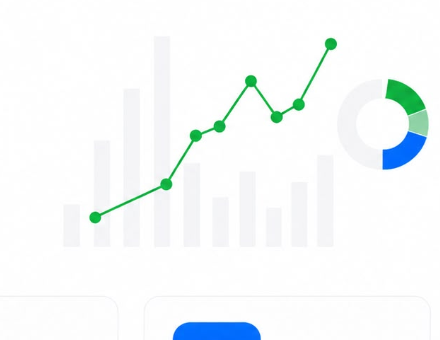
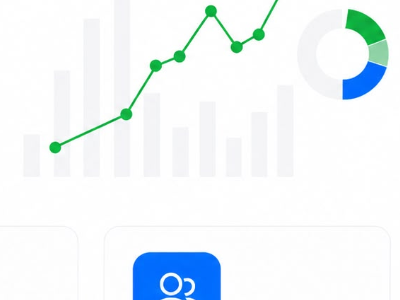
fix: Realign Features section layout, graph position, card aspect ratios, and grid container to match reference image

diff --git a/src/components/landing/FeaturesSection.tsx b/src/components/landing/FeaturesSection.tsx
@@ -3,73 +3,73 @@ import { motion } from 'framer-motion';
 
 export const FeaturesSection: React.FC = () => {
   return (
-    <section id="features" className="w-full bg-white pt-2 lg:pt-6 pb-20 lg:pb-28 font-sans scroll-mt-24">
-      <div className="w-full max-w-[1340px] mx-auto px-6 sm:px-10 lg:px-14">
+    <section id="features" className="w-full bg-white pt-2 lg:pt-6 pb-16 lg:pb-24 font-sans scroll-mt-24">
+      <div className="w-full max-w-[1240px] mx-auto px-6 sm:px-10 lg:px-12">
         
-        {/* Top Header Row (Left text + Right graph illustration) */}
+        {/* Top Header Row (Left Text + Right Graph Illustration) */}
         <motion.div 
-          initial={{ opacity: 0, y: 25 }}
+          initial={{ opacity: 0, y: 20 }}
           whileInView={{ opacity: 1, y: 0 }}
           viewport={{ once: true, margin: "-60px" }}
-          transition={{ duration: 0.5, ease: "easeOut" }}
+          transition={{ duration: 0.45, ease: "easeOut" }}
           className="grid grid-cols-1 lg:grid-cols-12 gap-8 items-center"
         >
           {/* Left Text Header */}
-          <div className="lg:col-span-6 xl:col-span-6">
-            <span className="text-[#1B853A] font-bold text-base uppercase tracking-wider block mb-4">
+          <div className="lg:col-span-6">
+            <span className="text-[#1B853A] font-bold text-sm lg:text-base uppercase tracking-wider block mb-3.5">
               FEATURES
             </span>
 
-            <h2 className="text-4xl sm:text-5xl lg:text-[54px] font-extrabold text-[#0B0F19] tracking-tight leading-[1.14]">
+            <h2 className="text-3xl sm:text-4xl lg:text-[44px] font-extrabold text-[#0F172A] tracking-tight leading-[1.15]">
               Everything you need<br />
               in one integrated system
             </h2>
 
-            <p className="mt-6 text-[#4B5563] text-lg sm:text-xl max-w-[520px] leading-relaxed font-normal">
+            <p className="mt-5 text-[#4B5563] text-base lg:text-lg max-w-[480px] leading-relaxed font-normal">
               Obrain ERP comes with a wide range of powerful features to support every department in your business.
             </p>
           </div>
 
-          {/* Right Graph Illustration (Full scale matching visual spec) */}
-          <div className="lg:col-span-6 xl:col-span-6 flex justify-center lg:justify-end mt-4 lg:mt-0">
-            <div className="w-full max-w-[580px] lg:max-w-[620px] flex justify-end">
+          {/* Right Graph Illustration */}
+          <div className="lg:col-span-6 flex justify-center lg:justify-end">
+            <div className="w-full max-w-[480px] lg:max-w-[520px]">
               <img
                 src="/features-graph.png"
-                alt="Obrain ERP Features Analytics Illustration"
-                className="w-full h-auto object-contain select-none pointer-events-none drop-shadow-xs"
+                alt="Obrain ERP Analytics Illustration"
+                className="w-full h-auto object-contain select-none pointer-events-none"
               />
             </div>
           </div>
         </motion.div>
 
-        {/* 3 Feature Cards (Full container width & proportion) */}
-        <div className="grid grid-cols-1 md:grid-cols-3 gap-8 sm:gap-10 mt-12 lg:mt-16">
+        {/* 3 Feature Cards (Matching exact target reference image proportions) */}
+        <div className="grid grid-cols-1 md:grid-cols-3 gap-6 lg:gap-8 mt-12 lg:mt-16">
           
           {/* Card 1: Finance Management */}
           <motion.div
-            initial={{ opacity: 0, y: 25 }}
+            initial={{ opacity: 0, y: 20 }}
             whileInView={{ opacity: 1, y: 0 }}
             viewport={{ once: true, margin: "-40px" }}
-            transition={{ duration: 0.45, delay: 0.1, ease: "easeOut" }}
-            className="bg-white border border-slate-200/80 rounded-[32px] p-8 sm:p-10 lg:p-12 shadow-xs hover:shadow-xl hover:-translate-y-1.5 transition-all duration-300 flex flex-col justify-between"
+            transition={{ duration: 0.4, delay: 0.1, ease: "easeOut" }}
+            className="bg-white border border-slate-200/80 rounded-[24px] p-7 sm:p-8 lg:p-9 shadow-xs hover:shadow-lg hover:-translate-y-1 transition-all duration-300 flex flex-col justify-between"
           >
             <div>
-              <div className="w-20 h-20 sm:w-22 sm:h-22 rounded-3xl bg-[#1B853A] flex items-center justify-center mb-8 shadow-xs">
-                <svg className="w-10 h-10 text-white" viewBox="0 0 24 24" fill="none" stroke="currentColor" strokeWidth="2" strokeLinecap="round" strokeLinejoin="round">
+              <div className="w-[72px] h-[72px] rounded-[20px] bg-[#1B853A] flex items-center justify-center mb-7 shadow-xs">
+                <svg className="w-9 h-9 text-white" viewBox="0 0 24 24" fill="none" stroke="currentColor" strokeWidth="2" strokeLinecap="round" strokeLinejoin="round">
                   <path d="M14 2H6a2 2 0 0 0-2 2v16a2 2 0 0 0 2 2h12a2 2 0 0 0 2-2V8z"></path>
                   <polyline points="14 2 14 8 20 8"></polyline>
                   <line x1="16" y1="13" x2="8" y2="13"></line>
                   <line x1="16" y1="17" x2="8" y2="17"></line>
-                  <circle cx="12" cy="15" r="3" fill="#1B853A" stroke="white" strokeWidth="2"></circle>
-                  <text x="12" y="17.5" textAnchor="middle" fill="white" fontSize="9" fontWeight="bold">$</text>
+                  <circle cx="12" cy="15" r="3.5" fill="#1B853A" stroke="white" strokeWidth="2"></circle>
+                  <text x="12" y="17.8" textAnchor="middle" fill="white" fontSize="9" fontWeight="bold">$</text>
                 </svg>
               </div>
 
-              <h3 className="text-2xl sm:text-3xl font-extrabold text-[#0B0F19] mb-4 tracking-tight">
+              <h3 className="text-2xl font-bold text-[#0F172A] mb-3 tracking-tight">
                 Finance Management
               </h3>
 
-              <p className="text-[#4B5563] text-base sm:text-lg leading-relaxed font-normal">
+              <p className="text-[#4B5563] text-base leading-relaxed font-normal">
                 Track expenses, manage budgets, and generate financial reports with ease.
               </p>
             </div>
@@ -77,26 +77,26 @@ export const FeaturesSection: React.FC = () => {
 
           {/* Card 2: Inventory Management */}
           <motion.div
-            initial={{ opacity: 0, y: 25 }}
+            initial={{ opacity: 0, y: 20 }}
             whileInView={{ opacity: 1, y: 0 }}
             viewport={{ once: true, margin: "-40px" }}
-            transition={{ duration: 0.45, delay: 0.2, ease: "easeOut" }}
-            className="bg-white border border-slate-200/80 rounded-[32px] p-8 sm:p-10 lg:p-12 shadow-xs hover:shadow-xl hover:-translate-y-1.5 transition-all duration-300 flex flex-col justify-between"
+            transition={{ duration: 0.4, delay: 0.2, ease: "easeOut" }}
+            className="bg-white border border-slate-200/80 rounded-[24px] p-7 sm:p-8 lg:p-9 shadow-xs hover:shadow-lg hover:-translate-y-1 transition-all duration-300 flex flex-col justify-between"
           >
             <div>
-              <div className="w-20 h-20 sm:w-22 sm:h-22 rounded-3xl bg-[#1B853A] flex items-center justify-center mb-8 shadow-xs">
-                <svg className="w-10 h-10 text-white" viewBox="0 0 24 24" fill="none" stroke="currentColor" strokeWidth="2" strokeLinecap="round" strokeLinejoin="round">
+              <div className="w-[72px] h-[72px] rounded-[20px] bg-[#1B853A] flex items-center justify-center mb-7 shadow-xs">
+                <svg className="w-9 h-9 text-white" viewBox="0 0 24 24" fill="none" stroke="currentColor" strokeWidth="2" strokeLinecap="round" strokeLinejoin="round">
                   <path d="M21 16V8a2 2 0 0 0-1-1.73l-7-4a2 2 0 0 0-2 0l-7 4A2 2 0 0 0 3 8v8a2 2 0 0 0 1 1.73l7 4a2 2 0 0 0 2 0l7-4A2 2 0 0 0 21 16z"></path>
                   <polyline points="3.27 6.96 12 12.01 20.73 6.96"></polyline>
                   <line x1="12" y1="22.08" x2="12" y2="12"></line>
                 </svg>
               </div>
 
-              <h3 className="text-2xl sm:text-3xl font-extrabold text-[#0B0F19] mb-4 tracking-tight">
+              <h3 className="text-2xl font-bold text-[#0F172A] mb-3 tracking-tight">
                 Inventory Management
               </h3>
 
-              <p className="text-[#4B5563] text-base sm:text-lg leading-relaxed font-normal">
+              <p className="text-[#4B5563] text-base leading-relaxed font-normal">
                 Monitor stock levels and optimize inventory operations in real time.
               </p>
             </div>
@@ -104,15 +104,15 @@ export const FeaturesSection: React.FC = () => {
 
           {/* Card 3: Sales & CRM */}
           <motion.div
-            initial={{ opacity: 0, y: 25 }}
+            initial={{ opacity: 0, y: 20 }}
             whileInView={{ opacity: 1, y: 0 }}
             viewport={{ once: true, margin: "-40px" }}
-            transition={{ duration: 0.45, delay: 0.3, ease: "easeOut" }}
-            className="bg-white border border-slate-200/80 rounded-[32px] p-8 sm:p-10 lg:p-12 shadow-xs hover:shadow-xl hover:-translate-y-1.5 transition-all duration-300 flex flex-col justify-between"
+            transition={{ duration: 0.4, delay: 0.3, ease: "easeOut" }}
+            className="bg-white border border-slate-200/80 rounded-[24px] p-7 sm:p-8 lg:p-9 shadow-xs hover:shadow-lg hover:-translate-y-1 transition-all duration-300 flex flex-col justify-between"
           >
             <div>
-              <div className="w-20 h-20 sm:w-22 sm:h-22 rounded-3xl bg-[#006CFF] flex items-center justify-center mb-8 shadow-xs">
-                <svg className="w-10 h-10 text-white" viewBox="0 0 24 24" fill="none" stroke="currentColor" strokeWidth="2" strokeLinecap="round" strokeLinejoin="round">
+              <div className="w-[72px] h-[72px] rounded-[20px] bg-[#0066FF] flex items-center justify-center mb-7 shadow-xs">
+                <svg className="w-9 h-9 text-white" viewBox="0 0 24 24" fill="none" stroke="currentColor" strokeWidth="2" strokeLinecap="round" strokeLinejoin="round">
                   <path d="M17 21v-2a4 4 0 0 0-4-4H5a4 4 0 0 0-4 4v2"></path>
                   <circle cx="9" cy="7" r="4"></circle>
                   <path d="M23 21v-2a4 4 0 0 0-3-3.87"></path>
@@ -120,11 +120,11 @@ export const FeaturesSection: React.FC = () => {
                 </svg>
               </div>
 
-              <h3 className="text-2xl sm:text-3xl font-extrabold text-[#0B0F19] mb-4 tracking-tight">
+              <h3 className="text-2xl font-bold text-[#0F172A] mb-3 tracking-tight">
                 Sales & CRM
               </h3>
 
-              <p className="text-[#4B5563] text-base sm:text-lg leading-relaxed font-normal">
+              <p className="text-[#4B5563] text-base leading-relaxed font-normal">
                 Strengthen customer relationships and boost sales performance.
               </p>
             </div>

diff --git a/src/components/landing/HeroSection.tsx b/src/components/landing/HeroSection.tsx
@@ -10,7 +10,7 @@ interface HeroSectionProps {
 export const HeroSection: React.FC<HeroSectionProps> = ({ onLogin }) => {
   return (
     <section id="home" className="w-full bg-white font-sans scroll-mt-24 pt-4 lg:pt-8 pb-8 lg:pb-12">
-      <div className="w-full max-w-[1340px] mx-auto px-6 sm:px-10 lg:px-14 relative">
+      <div className="w-full max-w-[1240px] mx-auto px-6 sm:px-10 lg:px-12 relative">
         <div className="grid grid-cols-1 lg:grid-cols-12 gap-10 lg:gap-12 items-center relative">
           
           {/* Left Column - Content */}

diff --git a/src/components/landing/FooterSection.tsx b/src/components/landing/FooterSection.tsx
@@ -8,7 +8,7 @@ interface FooterSectionProps {
 export const FooterSection: React.FC<FooterSectionProps> = ({ onNavigateToSection }) => {
   return (
     <footer className="w-full bg-slate-900 text-white py-16 font-sans border-t border-slate-800">
-      <div className="w-full max-w-[1340px] mx-auto px-6 sm:px-10 lg:px-14">
+      <div className="w-full max-w-[1240px] mx-auto px-6 sm:px-10 lg:px-12">
         <div className="grid grid-cols-1 md:grid-cols-12 gap-10 pb-12 border-b border-slate-800">
           
           <div className="md:col-span-5">

diff --git a/src/components/landing/LandingHeader.tsx b/src/components/landing/LandingHeader.tsx
@@ -38,7 +38,7 @@ export const LandingHeader: React.FC<LandingHeaderProps> = ({
         ? 'bg-white/90 backdrop-blur-md border-b border-slate-100 shadow-xs py-3.5' 
         : 'bg-white py-5'
     }`}>
-      <div className="w-full max-w-[1340px] mx-auto px-6 sm:px-10 lg:px-14 flex items-center justify-between font-sans">
+      <div className="w-full max-w-[1240px] mx-auto px-6 sm:px-10 lg:px-12 flex items-center justify-between font-sans">
         
         {/* Unified Obrain Logo */}
         <Logo 

diff --git a/src/components/landing/AboutSection.tsx b/src/components/landing/AboutSection.tsx
@@ -5,7 +5,7 @@ import { Shield, Award, Users, Globe } from 'lucide-react';
 export const AboutSection: React.FC = () => {
   return (
     <section id="about-us" className="w-full bg-white py-20 lg:py-28 font-sans scroll-mt-24">
-      <div className="w-full max-w-[1340px] mx-auto px-6 sm:px-10 lg:px-14">
+      <div className="w-full max-w-[1240px] mx-auto px-6 sm:px-10 lg:px-12">
         <div className="grid grid-cols-1 lg:grid-cols-12 gap-12 items-center">
           
           <motion.div 

diff --git a/src/components/landing/PricingSection.tsx b/src/components/landing/PricingSection.tsx
@@ -36,7 +36,7 @@ export const PricingSection: React.FC<PricingSectionProps> = ({ onSelectPlan }) 
 
   return (
     <section id="pricing" className="w-full bg-slate-50/70 py-20 lg:py-28 font-sans scroll-mt-24">
-      <div className="w-full max-w-[1340px] mx-auto px-6 sm:px-10 lg:px-14">
+      <div className="w-full max-w-[1240px] mx-auto px-6 sm:px-10 lg:px-12">
         
         <motion.div 
           initial={{ opacity: 0, y: 30 }}

diff --git a/src/components/landing/ContactSection.tsx b/src/components/landing/ContactSection.tsx
@@ -15,7 +15,7 @@ export const ContactSection: React.FC = () => {
 
   return (
     <section id="contact" className="w-full bg-white py-20 lg:py-28 font-sans scroll-mt-24">
-      <div className="w-full max-w-[1340px] mx-auto px-6 sm:px-10 lg:px-14">
+      <div className="w-full max-w-[1240px] mx-auto px-6 sm:px-10 lg:px-12">
         
         <div className="grid grid-cols-1 lg:grid-cols-12 gap-12 items-start">
           

diff --git a/src/components/landing/SolutionsSection.tsx b/src/components/landing/SolutionsSection.tsx
@@ -23,7 +23,7 @@ export const SolutionsSection: React.FC = () => {
 
   return (
     <section id="solutions" className="w-full bg-slate-50/70 py-20 lg:py-28 font-sans scroll-mt-24">
-      <div className="w-full max-w-[1340px] mx-auto px-6 sm:px-10 lg:px-14">
+      <div className="w-full max-w-[1240px] mx-auto px-6 sm:px-10 lg:px-12">
         
         <motion.div 
           initial={{ opacity: 0, y: 30 }}
